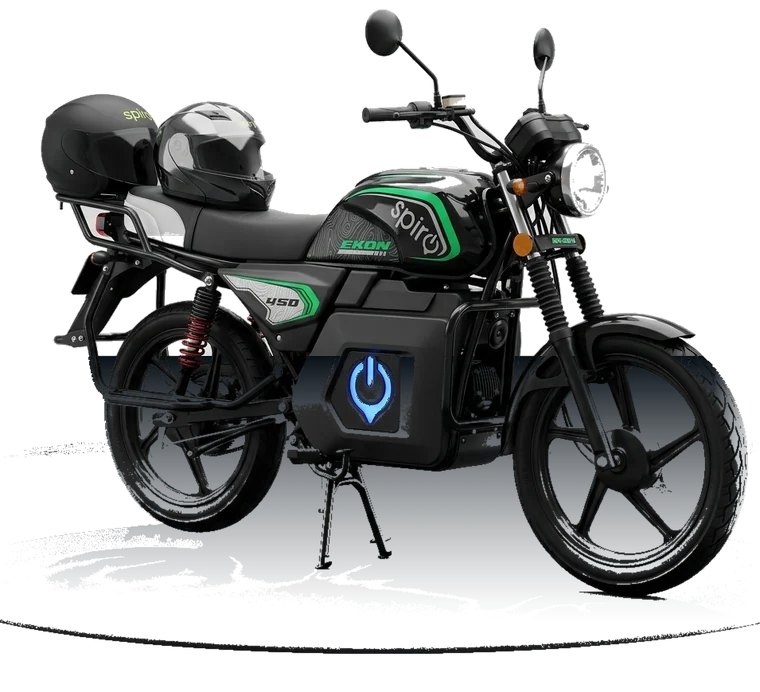
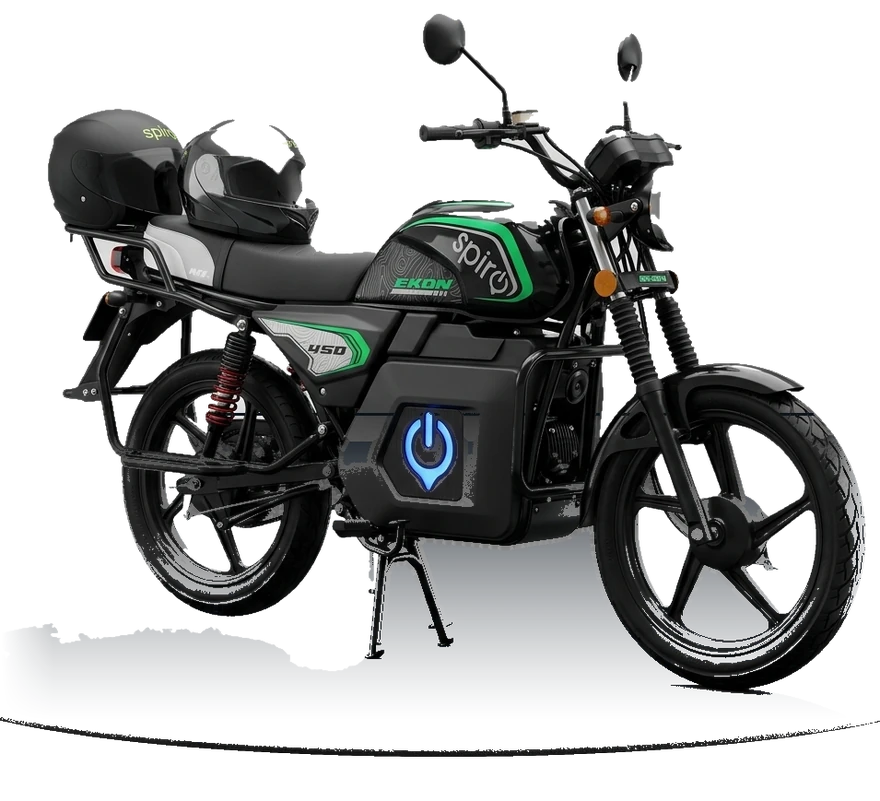
feat: clean matte on the stage cutout so no white edge survives

diff --git a/src/index.css b/src/index.css
@@ -573,7 +573,7 @@ body {
   position: relative;
   border-radius: 22px;
   overflow: hidden;
-  aspect-ratio: 760 / 692;
+  aspect-ratio: 880 / 809;
   min-height: 240px;
   perspective: 1100px;
   background: radial-gradient(70% 70% at 50% 55%, #1b2b33 0%, #08131b 70%);
@@ -658,7 +658,9 @@ body {
   height: 100%;
   object-fit: contain;
   object-position: 50% 48%;
-  filter: drop-shadow(0 26px 34px rgba(0, 0, 0, 0.55));
+  filter: drop-shadow(0 26px 34px rgba(0, 0, 0, 0.55)) drop-shadow(0 0 1px rgba(6, 17, 28, 0.9));
+  /* a very slow breathing drift: enough that the stage never reads as a still */
+  animation: ekon-idle 11s ease-in-out infinite;
   -webkit-user-drag: none;
   user-select: none;
 }
@@ -669,16 +671,21 @@ body {
  * patch over it would read as a smudge.
  */
 
+@keyframes ekon-idle {
+  0%, 100% { transform: translate3d(0, 0, 0) scale(1); }
+  50% { transform: translate3d(0, -0.7%, 0) scale(1.006); }
+}
+
 /* contact shadow, so the cutout is standing on something */
 .ekon-ground {
   position: absolute;
-  left: 8%;
-  right: 8%;
-  bottom: 9%;
-  height: 16%;
+  left: 12%;
+  right: 12%;
+  bottom: 10%;
+  height: 12%;
   border-radius: 50%;
-  background: radial-gradient(closest-side, rgba(0, 0, 0, 0.62), transparent 78%);
-  filter: blur(14px);
+  background: radial-gradient(closest-side, rgba(0, 0, 0, 0.5), transparent 80%);
+  filter: blur(16px);
   transform: translate3d(calc(var(--px) * -4px), 0, 0);
   pointer-events: none;
 }
@@ -1234,6 +1241,7 @@ input[type="range"].ekon-range::-webkit-slider-thumb {
   }
   /* the spec stage reads as a still photograph rather than a moving scene */
   .ekon-scene,
+  .ekon-bike,
   .ekon-bike-layer,
   .ekon-halo,
   .ekon-grid-floor,
